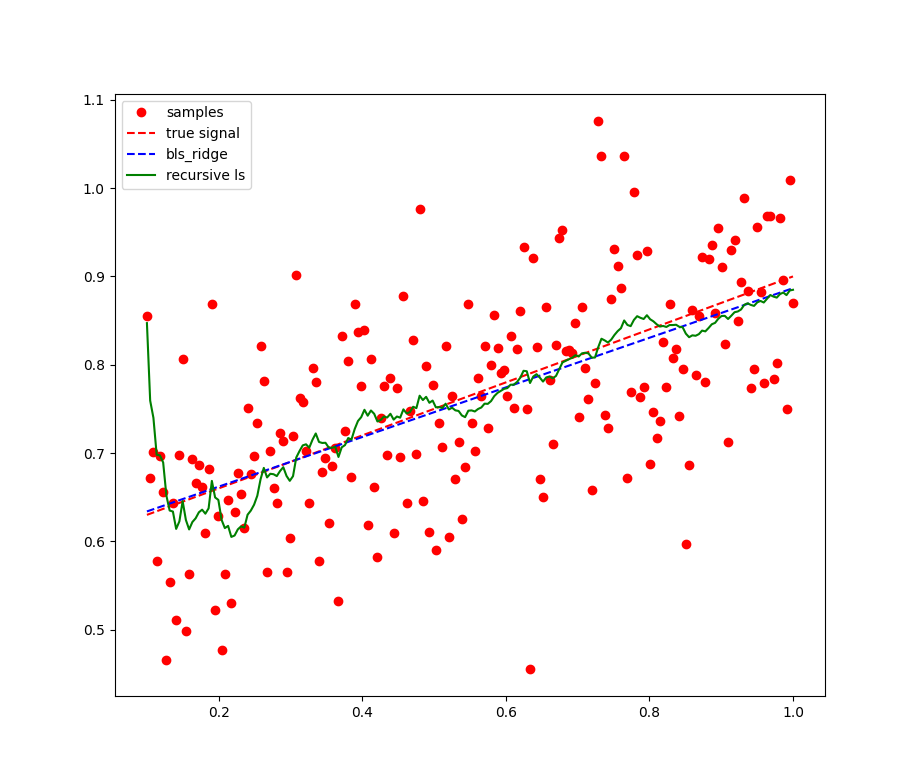
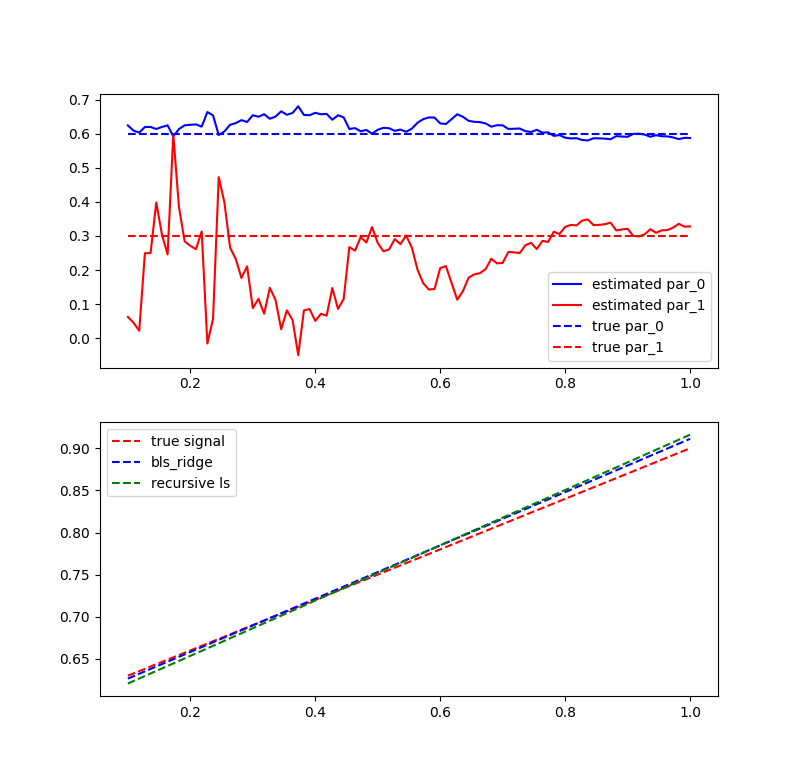
use final parameters for model from RLS

diff --git a/linear_example.py b/linear_example.py
@@ -6,7 +6,7 @@ import rls
 # Example: linear signal
 #-----------------------------------------------------------
 
-samples = 200
+samples = 100
 time = np.linspace(0.1, 1, samples)
 true_signal = 0.6 + 0.3 * time
 noise = np.random.normal(0, 0.1, samples) 
@@ -16,20 +16,29 @@ y = true_signal + noise
 bls_r = rls.batch_ls(samples, 2, time, y, ridge_factor=1e-05)
 rec_ls = rls.rls(samples, 2, time, y, 0.99, 100)
 
-# use estimated parameters to calculate output at each time step
-result = []
-for i in range(samples):
-    par = rec_ls[i]
-    t = time[i]
-    result.append(par[0] + par[1] * t)
+rec_par_0 = rec_ls[samples-1][0]
+rec_par_1 = rec_ls[samples-1][1]
+
+par_0 = [x[0] for x in rec_ls]
+par_1 = [x[1] for x in rec_ls]
 
 
 
-plt.plot(time, y, 'ro', label='samples')
+plt.subplot(2, 1, 1)
+plt.plot(time, par_0, color='b', label='estimated par_0')
+plt.plot(time, par_1, color='r', label='estimated par_1')
+plt.plot(time, [0.6]*samples, color='b', linestyle='--', label='true par_0')
+plt.plot(time, [0.3]*samples, color='r', linestyle='--', label='true par_1')
+plt.legend()
+
+plt.subplot(2, 1, 2)
+# plt.plot(time, y, 'ro', label='samples')
 plt.plot(time, true_signal, linestyle='--', color='r',\
 label='true signal')
 plt.plot(time, bls_r[0] + bls_r[1] * time, linestyle='--',\
 color='b', label='bls_ridge')
-plt.plot(time, result, color='g', label='recursive ls')
+plt.plot(time, rec_par_0 + rec_par_1 * time, color='g',\
+linestyle='--', label='recursive ls')
 plt.legend()
+
 plt.show()

diff --git a/README.md b/README.md
@@ -23,7 +23,7 @@ A high delta (typically around 100) implies low trust.
 
 ## Examples
 The first example compares batch least squares regression (bls) 
-with RLS using 200 samples.  
+with RLS.  
 ![](./images/rls_lin.png)
 
 
